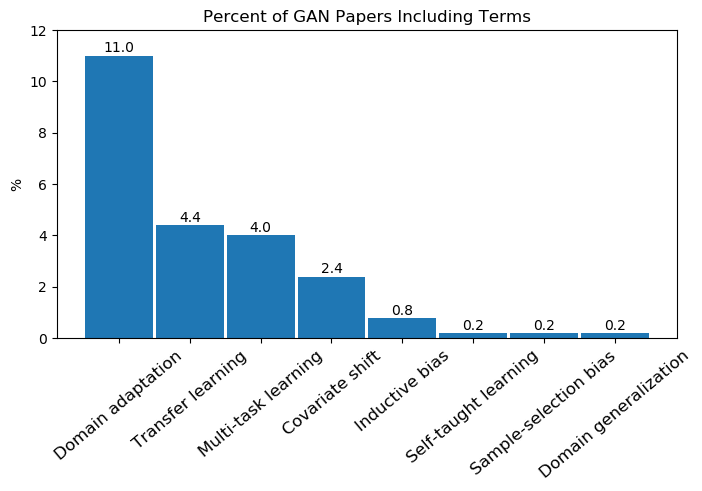
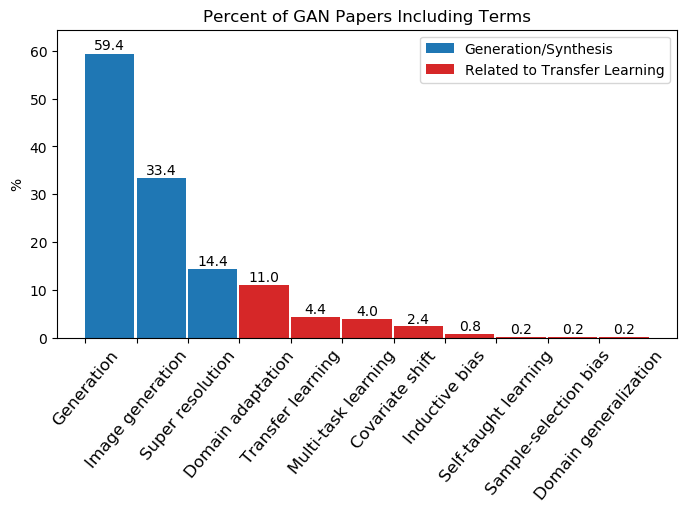
Different color for generative terms

diff --git a/generate_chart.py b/generate_chart.py
@@ -141,9 +141,9 @@ def autolabel(ax, rects, yerr=None):
                 '%.1f' % height,
                 ha='center', va='bottom')
 
-def barplot(fracs, labels, save_name=None):
+def barplot(fracs, labels, colors=None, save_name=None):
     assert len(fracs) == len(labels)
-    colors = ["xkcd:orange", "xkcd:teal", "xkcd:darkgreen", "xkcd:orchid", "xkcd:blue", "xkcd:indigo"]
+    #colors = ["xkcd:orange", "xkcd:teal", "xkcd:darkgreen", "xkcd:orchid", "xkcd:blue", "xkcd:indigo"]
     
     fig, ax = plt.subplots(1,1,figsize=(8, 4))
     rects = []
@@ -154,14 +154,20 @@ def barplot(fracs, labels, save_name=None):
     i = 0 # We only have one set of bars
     n = len(labels)
     x = np.array(range(n), dtype=np.float)
-    rects.append(ax.bar(x + i*width + i*margin, fracs, width))
+    if colors is not None:
+        rects.append(ax.bar(x + i*width + i*margin, fracs, width, color=colors))
+    else:
+        rects.append(ax.bar(x + i*width + i*margin, fracs, width))
     autolabel(ax, rects[-1])
-    ax.set_ylim([0,max(fracs)+1])
+    ax.set_ylim([0,max(fracs)+5])
         
-    plt.xticks(x, labels, rotation=40, fontsize=12)
-    #ax.set_xticks(x + width) # Offset if more than one set
+    plt.xticks(x, labels, rotation=50, fontsize=12)
+    ax.set_xticks(x - width/2)
     plt.ylabel("%")
     plt.title("Percent of GAN Papers Including Terms")
+
+    # Assuming highest is generative and lowest is TL
+    ax.legend((rects[-1][0], rects[-1][-1]), ('Generation/Synthesis', 'Related to Transfer Learning'))
 
     if save_name is not None:
         plt.savefig(save_name+".png", bbox_inches='tight')
@@ -173,6 +179,7 @@ if __name__ == '__main__':
     # Paths to pdfgrep output
     grepGAN = 'grep/gan.txt'
     grepTL = 'grep/tl.txt'
+    grepGen = 'grep/generative.txt'
 
     # Where to save lists
     listdir = 'list'
@@ -180,6 +187,13 @@ if __name__ == '__main__':
     # Read data
     df_gan = pd.read_csv(grepGAN, sep='\x00', names=['Filename','Match'])
     df_tl = pd.read_csv(grepTL, sep='\x00', names=['Filename','Term'])
+    df_gen = pd.read_csv(grepGen, sep='\x00', names=['Filename','Term'])
+
+    # Ignore some generative terms
+    df_gen = df_gen[
+            (df_gen['Term'].str.lower() != 'image completion') & \
+            (df_gen['Term'].str.lower() != 'semantic segmentation') & \
+            (df_gen['Term'].str.lower() != 'style transfer')]
 
     # Pick one set of TL terms
     df_tl['Term'] = replace(df_tl['Term'], {
@@ -187,32 +201,59 @@ if __name__ == '__main__':
         'multi task learning':    'multi-task learning',
         'multidomain learning':   'multi-domain learning',
         'multi domain learning':  'multi-domain learning',
-        'self taught learning':  'self-taught learning',
+        'self taught learning':   'self-taught learning',
         'co-variate shift':       'covariate shift',
         'sample selection bias':  'sample-selection bias',
         'life long learning':     'life-long learning',
         })
+
+    # Pick one set of generative terms
+    df_gen['Term'] = replace(df_gen['Term'], {
+        #'image generation':       'image generation',
+        'generation of images':   'image generation',
+        'image synthesis':        'image generation',
+        'super-resolution':       'super resolution',
+        })
+
+    # "image generation" or "image synthesis" should be included in
+    # "generation", so duplicate (later we'll remove duplicates)
+    rows = df_gen[df_gen['Term'] == 'image generation']
+    rows['Term'] = rows['Term'].str.lower().replace('image generation', 'generation')
+    df_gen = pd.concat([df_gen, rows], ignore_index=True)
 
     #
     # Get GAN papers that also mention TL terms
     #
     gan = df_gan['Filename'].unique()
     tl = df_tl['Filename'].unique()
+    gen = df_gen['Filename'].unique()
     ganCount = len(gan)
     tlCount = len(tl)
+    genCount = len(gen)
+
+    # Generative terms in GAN papers
+    gen_both = df_gen.loc[df_gen['Filename'].isin(df_gan['Filename'])].drop_duplicates()
+    genPapers = gen_both['Filename'].unique()
+    gangenCount = len(genPapers)
+    gen_terms = gen_both['Term'].unique()
 
     # Pie chart of how many GAN papers include a mention of each of these terms
     both = df_tl.loc[df_tl['Filename'].isin(df_gan['Filename'])].drop_duplicates()
-    papers = both['Filename'].unique()
-    gantlCount = len(papers)
+    tlPapers = both['Filename'].unique()
+    gantlCount = len(tlPapers)
     terms = both['Term'].unique()
 
     termCounts = {}
-    for t in terms:
+    for t in terms: # TL
+        termCounts[t] = 0
+    for t in gen_terms: # Generative
         termCounts[t] = 0
 
-    for p in papers:
+    for p in tlPapers: # TL
         for t in both[both['Filename']==p]['Term']:
+            termCounts[t] += 1
+    for p in genPapers: # Generative
+        for t in gen_both[gen_both['Filename']==p]['Term']:
             termCounts[t] += 1
 
     fracs = [c/ganCount for c in termCounts.values()]
@@ -220,12 +261,16 @@ if __name__ == '__main__':
     labels = [cap(l) for l in labels]
     fracs, labels = zip(*sorted(zip(fracs, labels), reverse=True)) # Sort
     #pie(fracs, labels, "pie")
-    barplot([f*100 for f in fracs], labels, save_name="bar")
+    # See: https://matplotlib.org/users/dflt_style_changes.html
+    colors = ['#1f77b4' if l.lower() in gen_terms else '#d62728' for l in labels]
+    barplot([f*100 for f in fracs], labels, colors, save_name="bar")
 
     # Print counts of papers
     print("GAN Papers:", ganCount)
     print("TL Papers:", tlCount)
+    print("Generative Papers:", genCount)
     print("GAN & TL Papers:", gantlCount)
+    print("GAN & Generative Papers:", gangenCount)
 
     # Print percentages
     print()
@@ -234,16 +279,18 @@ if __name__ == '__main__':
         print(" ",labels[i],"-","%.1f%%"%(fracs[i]*100))
 
     # Pie chart showing of the GAN papers how many include any of the TL terms
-    includeTermsFracs = [(ganCount-gantlCount)/ganCount, gantlCount/ganCount]
-    includeTermsLabels = ['No TL Terms', 'Include TL Term(s)']
+    #includeTermsFracs = [(ganCount-gantlCount)/ganCount, gantlCount/ganCount]
+    #includeTermsLabels = ['No TL Terms', 'Include TL Term(s)']
     #pie(includeTermsFracs, includeTermsLabels, "pie_terms")
 
-    title1="GAN Papers Mentioning Transfer Learning"
-    title2="Transfer Learning Terms"
-    pieCombined(
-            includeTermsFracs, includeTermsLabels, title1,
-            fracs, labels, title2,
-            "pie")
+    # Note: this is wrong now since the terms don't just include TL terms but
+    #       others like "image generation"
+    #title1="GAN Papers Mentioning Transfer Learning"
+    #title2="Transfer Learning Terms"
+    #pieCombined(
+    #        includeTermsFracs, includeTermsLabels, title1,
+    #        fracs, labels, title2,
+    #        "pie")
 
     #
     # Output filenames for each of them
@@ -251,23 +298,27 @@ if __name__ == '__main__':
     if not os.path.exists(listdir):
         os.makedirs(listdir)
 
-    # When a single PDF (multiple rows) has multiple terms, join them to be
-    # like: ("pdfName", "term1, term2, term3")
-    grouped = df_tl.drop_duplicates().groupby('Filename').apply(lambda x: pd.Series({
-            'Term': ', '.join(x['Term'].sort_values())
-        })).reset_index()
-    both_grouped = grouped.loc[grouped['Filename'].isin(df_gan['Filename'])].drop_duplicates()
-    assert len(both_grouped) == len(papers), "Somehow grouped length different than overlap papers length"
-
-    with open(os.path.join(listdir, 'overlap.txt'), 'w') as f:
-        for index, row in both_grouped.iterrows():
-            f.write(row['Filename']+'\t'+row['Term']+'\n')
     with open(os.path.join(listdir, 'gan.txt'), 'w') as f:
         for e in gan:
             f.write(e+'\n')
     with open(os.path.join(listdir, 'tl.txt'), 'w') as f:
         for e in tl:
             f.write(e+'\n')
+    with open(os.path.join(listdir, 'generative.txt'), 'w') as f:
+        for e in gen:
+            f.write(e+'\n')
+
+    # When a single PDF (multiple rows) has multiple terms, join them to be
+    # like: ("pdfName", "term1, term2, term3")
+    tl_grouped = df_tl.drop_duplicates().groupby('Filename').apply(lambda x: pd.Series({
+            'Term': ', '.join(x['Term'].sort_values())
+        })).reset_index()
+    tl_both_grouped = tl_grouped.loc[tl_grouped['Filename'].isin(df_gan['Filename'])].drop_duplicates()
+    assert len(tl_both_grouped) == len(tlPapers), "Somehow tl_grouped length different than overlap papers length"
+
+    with open(os.path.join(listdir, 'overlap.txt'), 'w') as f:
+        for index, row in tl_both_grouped.iterrows():
+            f.write(row['Filename']+'\t'+row['Term']+'\n')
 
     """
     pie(both['Term'], save_name='pie', pandas=True)

diff --git a/README.md b/README.md
@@ -28,13 +28,16 @@ Optionally, look through all the overlap papers.
 |:-----------|:---------------------|
 | GAN        | 500                  |
 | TL         | 1,210                |
+| Generative | 2,708                |
 | GAN & TL   | 92                   |
+| GAN & Gen. | 324                  |
 | *(Total)*  | 16,644 (25.3 GiB)    |
 
 Of the 500 papers referring to GANs, this figure shows how many of those papers
-also include terms related to transfer learning. Based on searching the first
-three pages of each of the 16,644 available papers published in AAAI, ACL,
-AISTATS, CVPR, ICLR, ICML, IJCAI, JMLR, and NIPS between January 2014 and
-August 2018.
+also include terms related to transfer learning. For comparison, the use for
+generation (or synthesis) such as image generation and super resolution are
+also included. Results are based on searching the first three pages of each of
+the 16,644 available papers published in AAAI, ACL, AISTATS, CVPR, ICLR, ICML,
+IJCAI, JMLR, and NIPS between January 2014 and August 2018.
 
 [![Chart](https://raw.githubusercontent.com/floft/all-the-papers/master/bar.png)](https://raw.githubusercontent.com/floft/all-the-papers/master/bar.png)
